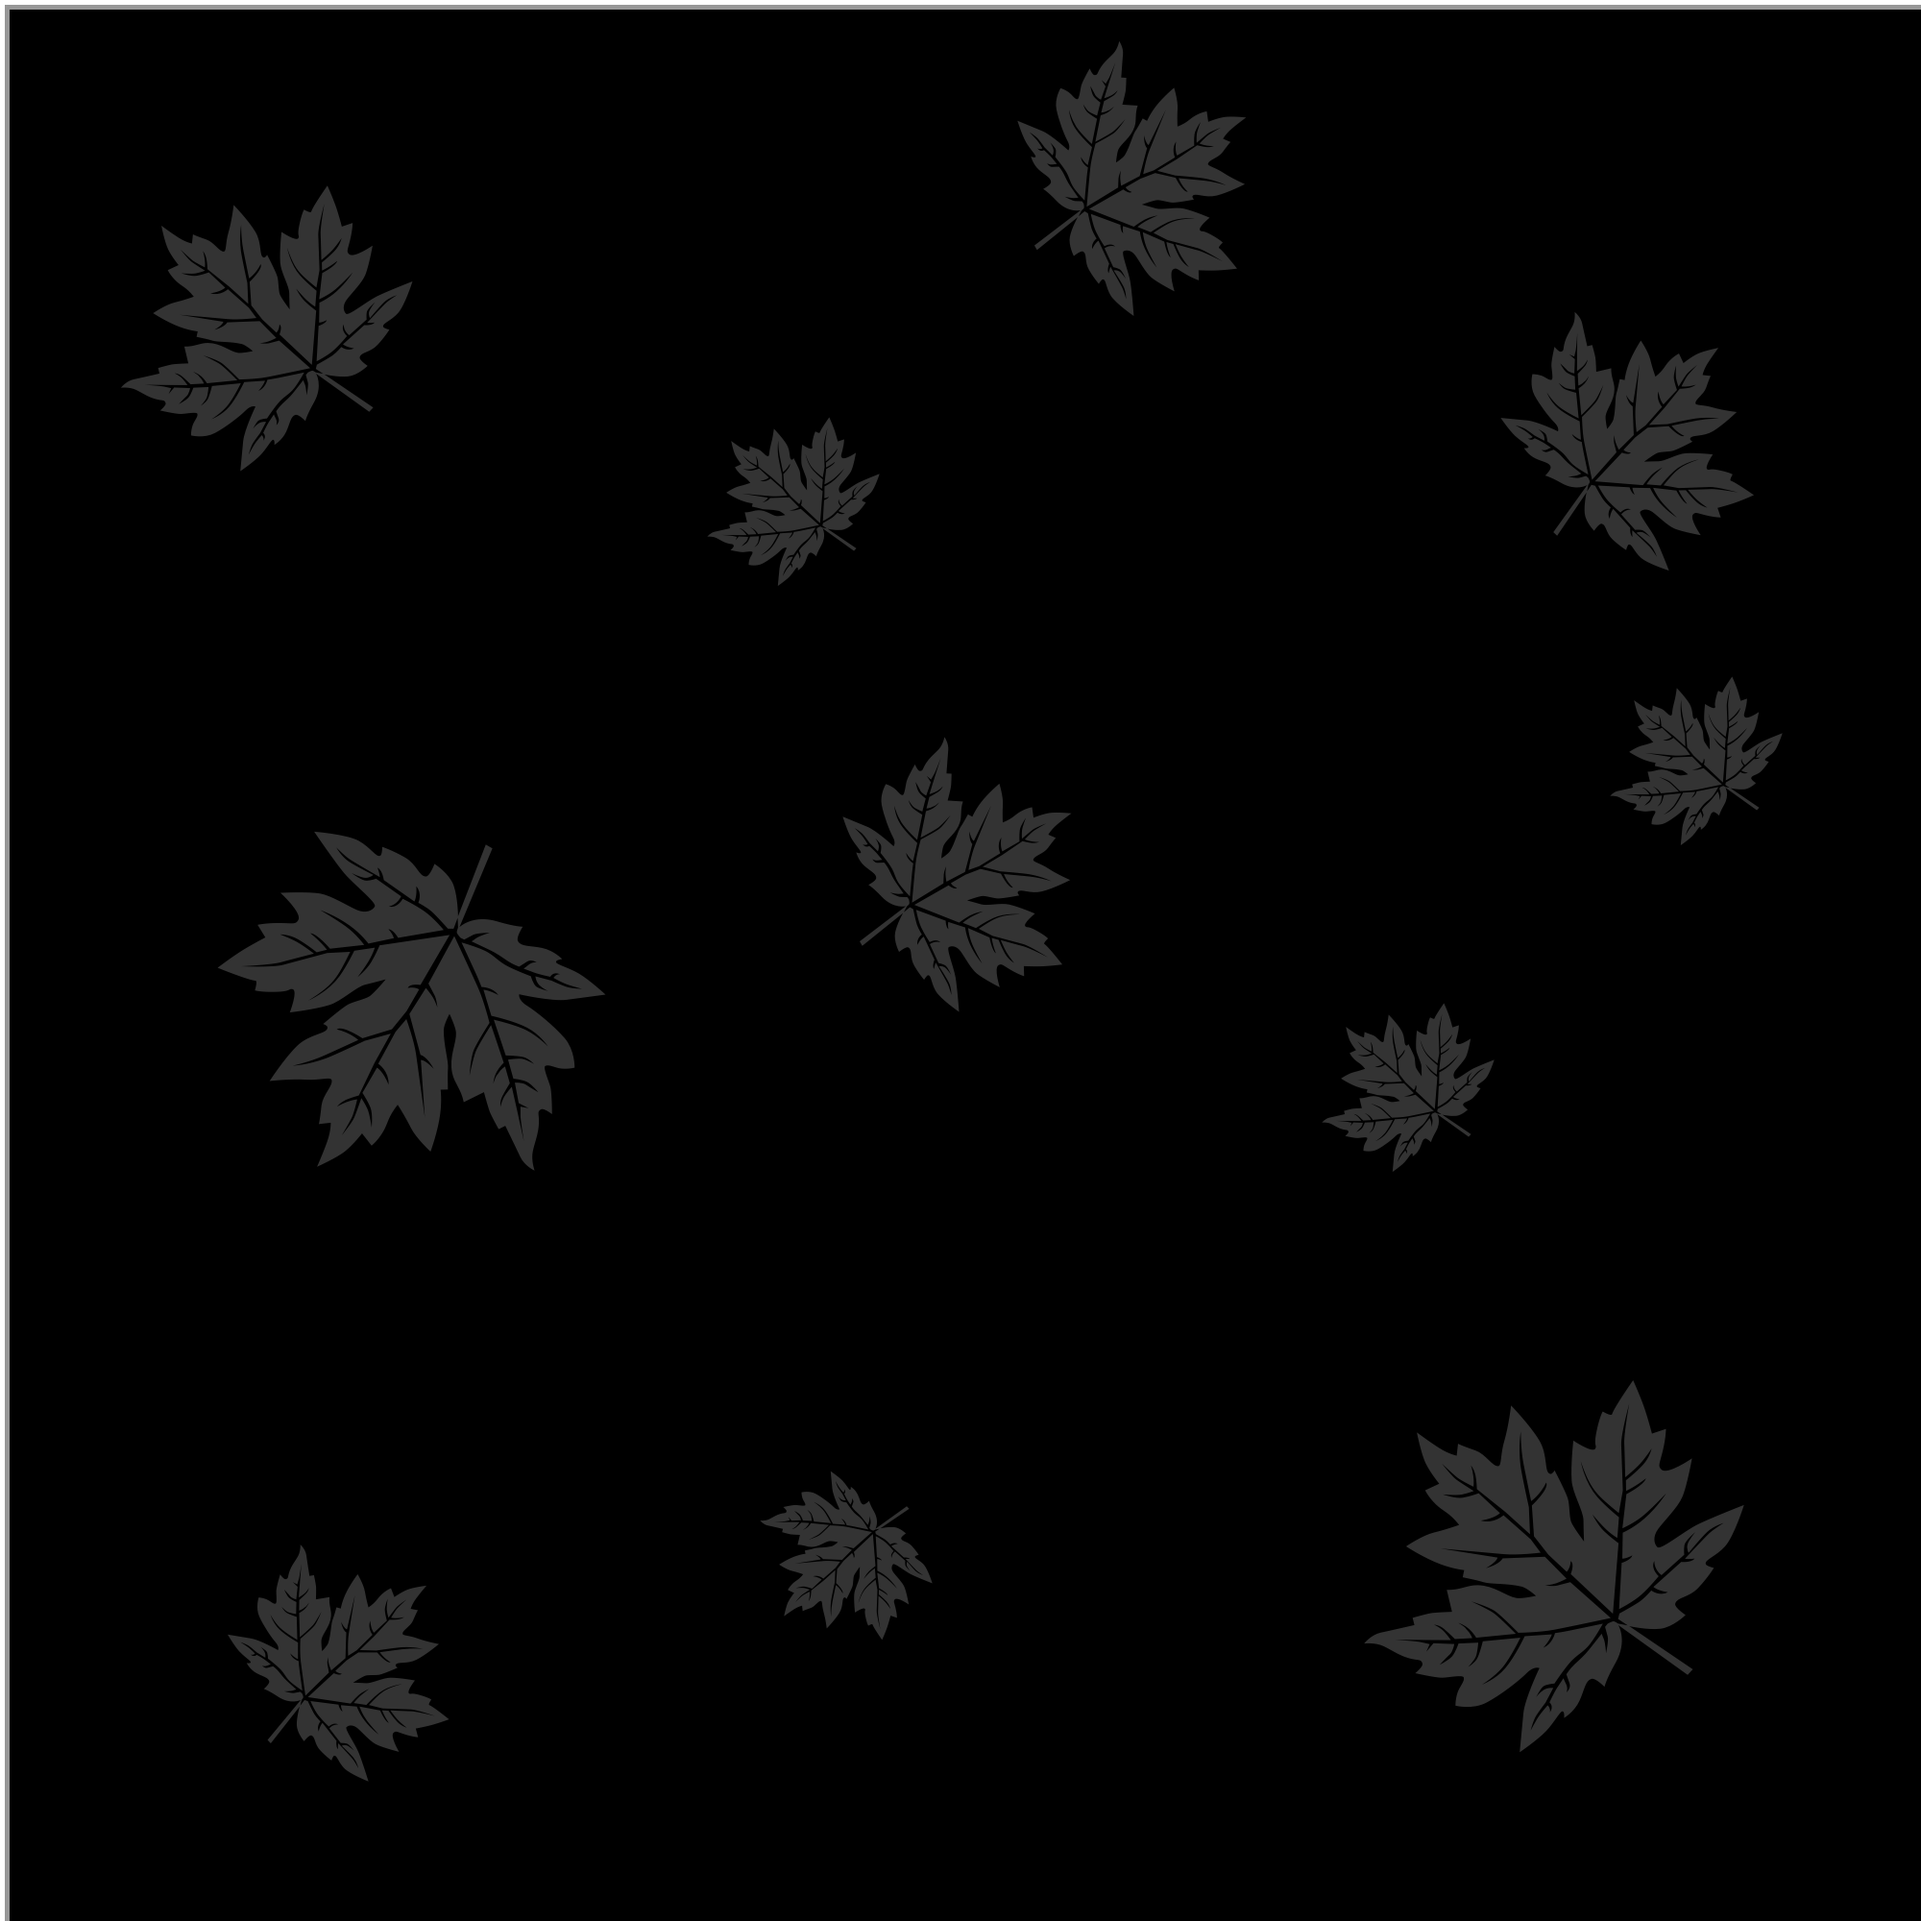
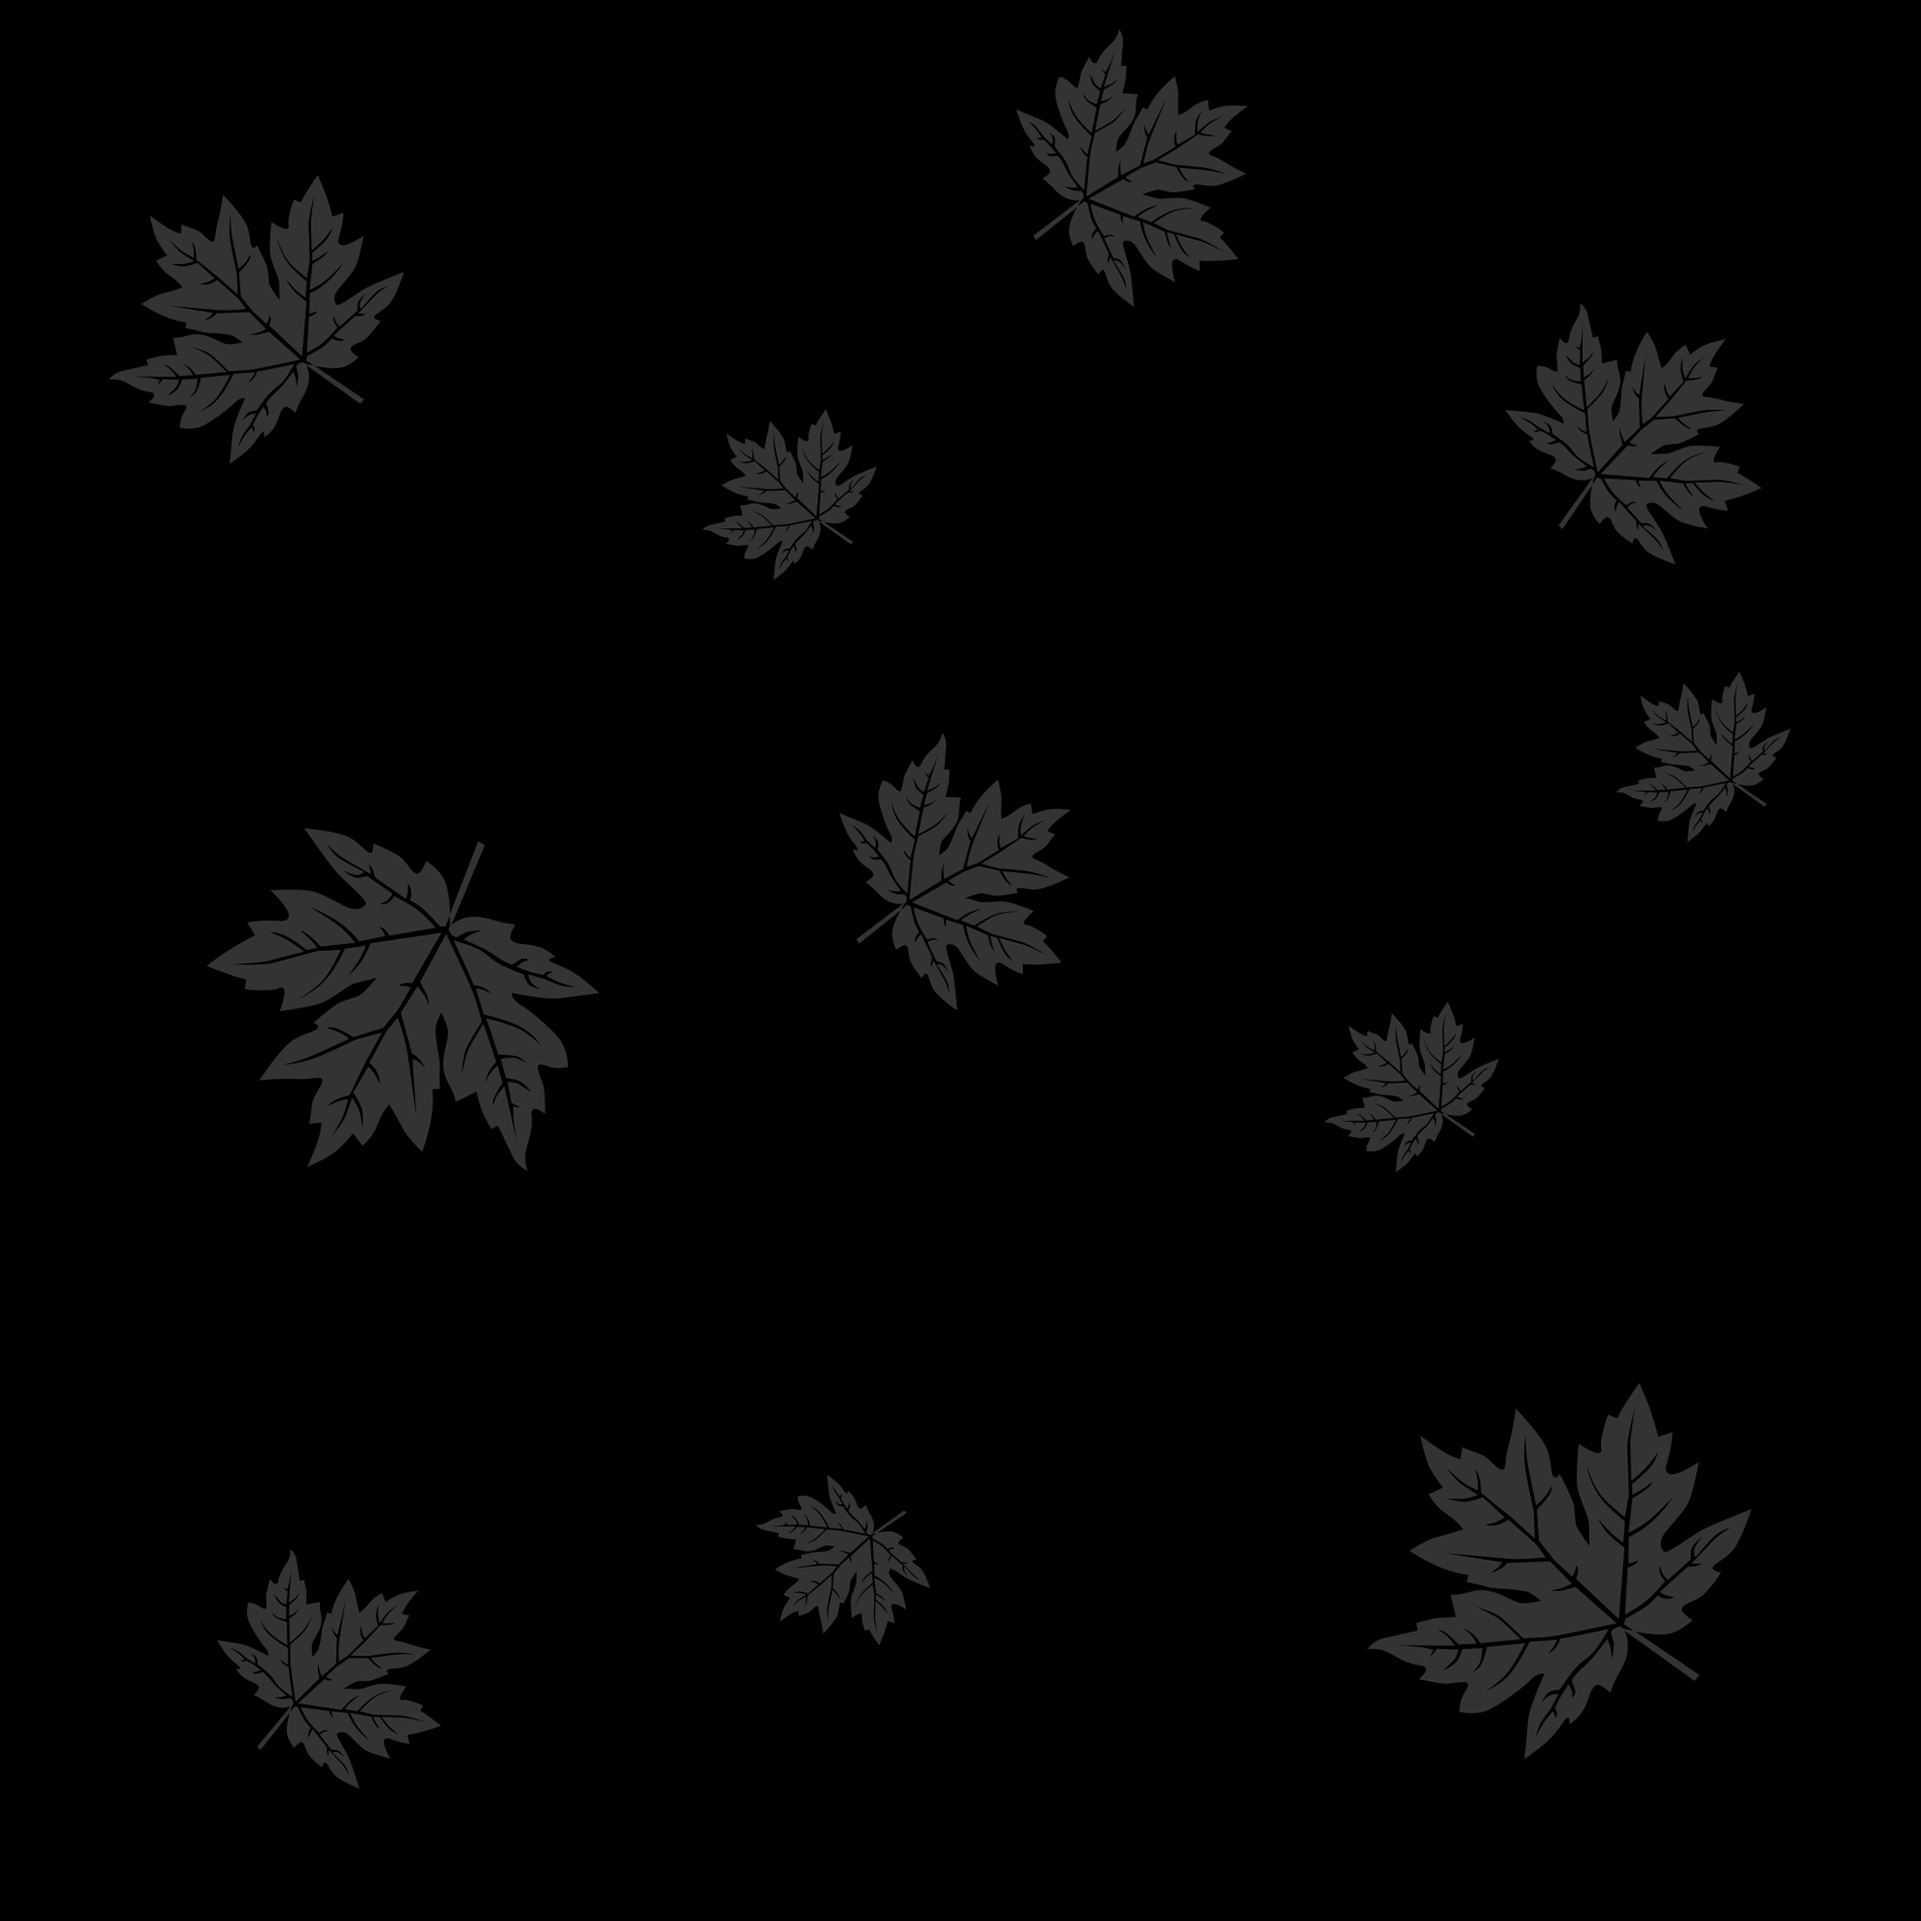
modified bg image to take out the white spaces from the raw file

diff --git a/themes/vatjss/style.css b/themes/vatjss/style.css
@@ -1490,7 +1490,7 @@ div aside.vatjss-biz-hours-class {
   text-transform: uppercase; }
 
 body.page-template-contact form.wpcf7-form div span.wpcf7-form-control-wrap select.wpcf7-form-control.wpcf7-select.wpcf7-validates-as-required, body.page-template-contact form.wpcf7-form div span.wpcf7-form-control-wrap input.wpcf7-form-control.wpcf7-text {
-  width: 100%;
+  width: 100vw;
   margin: 0;
   padding: 15px;
   height: 50px;
@@ -1604,9 +1604,6 @@ object {
       width: 0;
       height: 0;
       overflow: hidden; } }
-
-.post-type-archive-services .site-content, .post-type-archive-staff .site-content, .services-template-default .site-content, .page-template-events .site-content, .page-template-contact .site-content, .search-results .site-content, .search-no-results .site-content, .single .site-content {
-  padding-top: 5.125rem; }
 
 .search-no-results .search-form fieldset {
   border: none; }

diff --git a/themes/vatjss/js/contact.js b/themes/vatjss/js/contact.js
@@ -5,7 +5,8 @@ function openTab(evt, cityName) {
   // Get all elements with class="tabcontent" and hide them
   tabcontent = document.getElementsByClassName("tabcontent");
   for (i = 0; i < tabcontent.length; i++) {
-      tabcontent[i].style.display = "none";
+      tabcontent[i].style.width = "0";
+      tabcontent[i].style.height = "0";
       tabcontent[i].style.backgroundColor = "transparent";
   }
 
@@ -16,7 +17,8 @@ function openTab(evt, cityName) {
   }
 
   // Show the current tab, and add an "active" class to the button that opened the tab
-  document.getElementById(cityName).style.display = "block";
+  document.getElementById(cityName).style.width = "auto";
+  document.getElementById(cityName).style.height = "auto";
   document.getElementById(cityName).style.backgroundColor = "#971e16";
   evt.currentTarget.className += " active";
 }

diff --git a/themes/vatjss/sass/_contact.scss b/themes/vatjss/sass/_contact.scss
@@ -1,7 +1,7 @@
 body.page-template-contact {
   form.wpcf7-form div span.wpcf7-form-control-wrap {
     select.wpcf7-form-control.wpcf7-select.wpcf7-validates-as-required, input.wpcf7-form-control.wpcf7-text {
-      width: 100%;
+      width: 100vw;
       margin: 0;
       padding: 15px;
       height: 50px;
@@ -53,7 +53,6 @@ body.page-template-contact {
       input {
         height: 60px;
         width: 100%;
-        
       }
     }
   }

diff --git a/themes/vatjss/sass/_page-templates.scss b/themes/vatjss/sass/_page-templates.scss
@@ -19,11 +19,6 @@
   }
  }
 
-.post-type-archive-services, .post-type-archive-staff,.services-template-default,.page-template-events,.page-template-contact,.search-results,.search-no-results,.single{
-  .site-content{
-    padding-top: rem(82);
-  }
-}
 .search-no-results{
   .search-form{
     fieldset{
